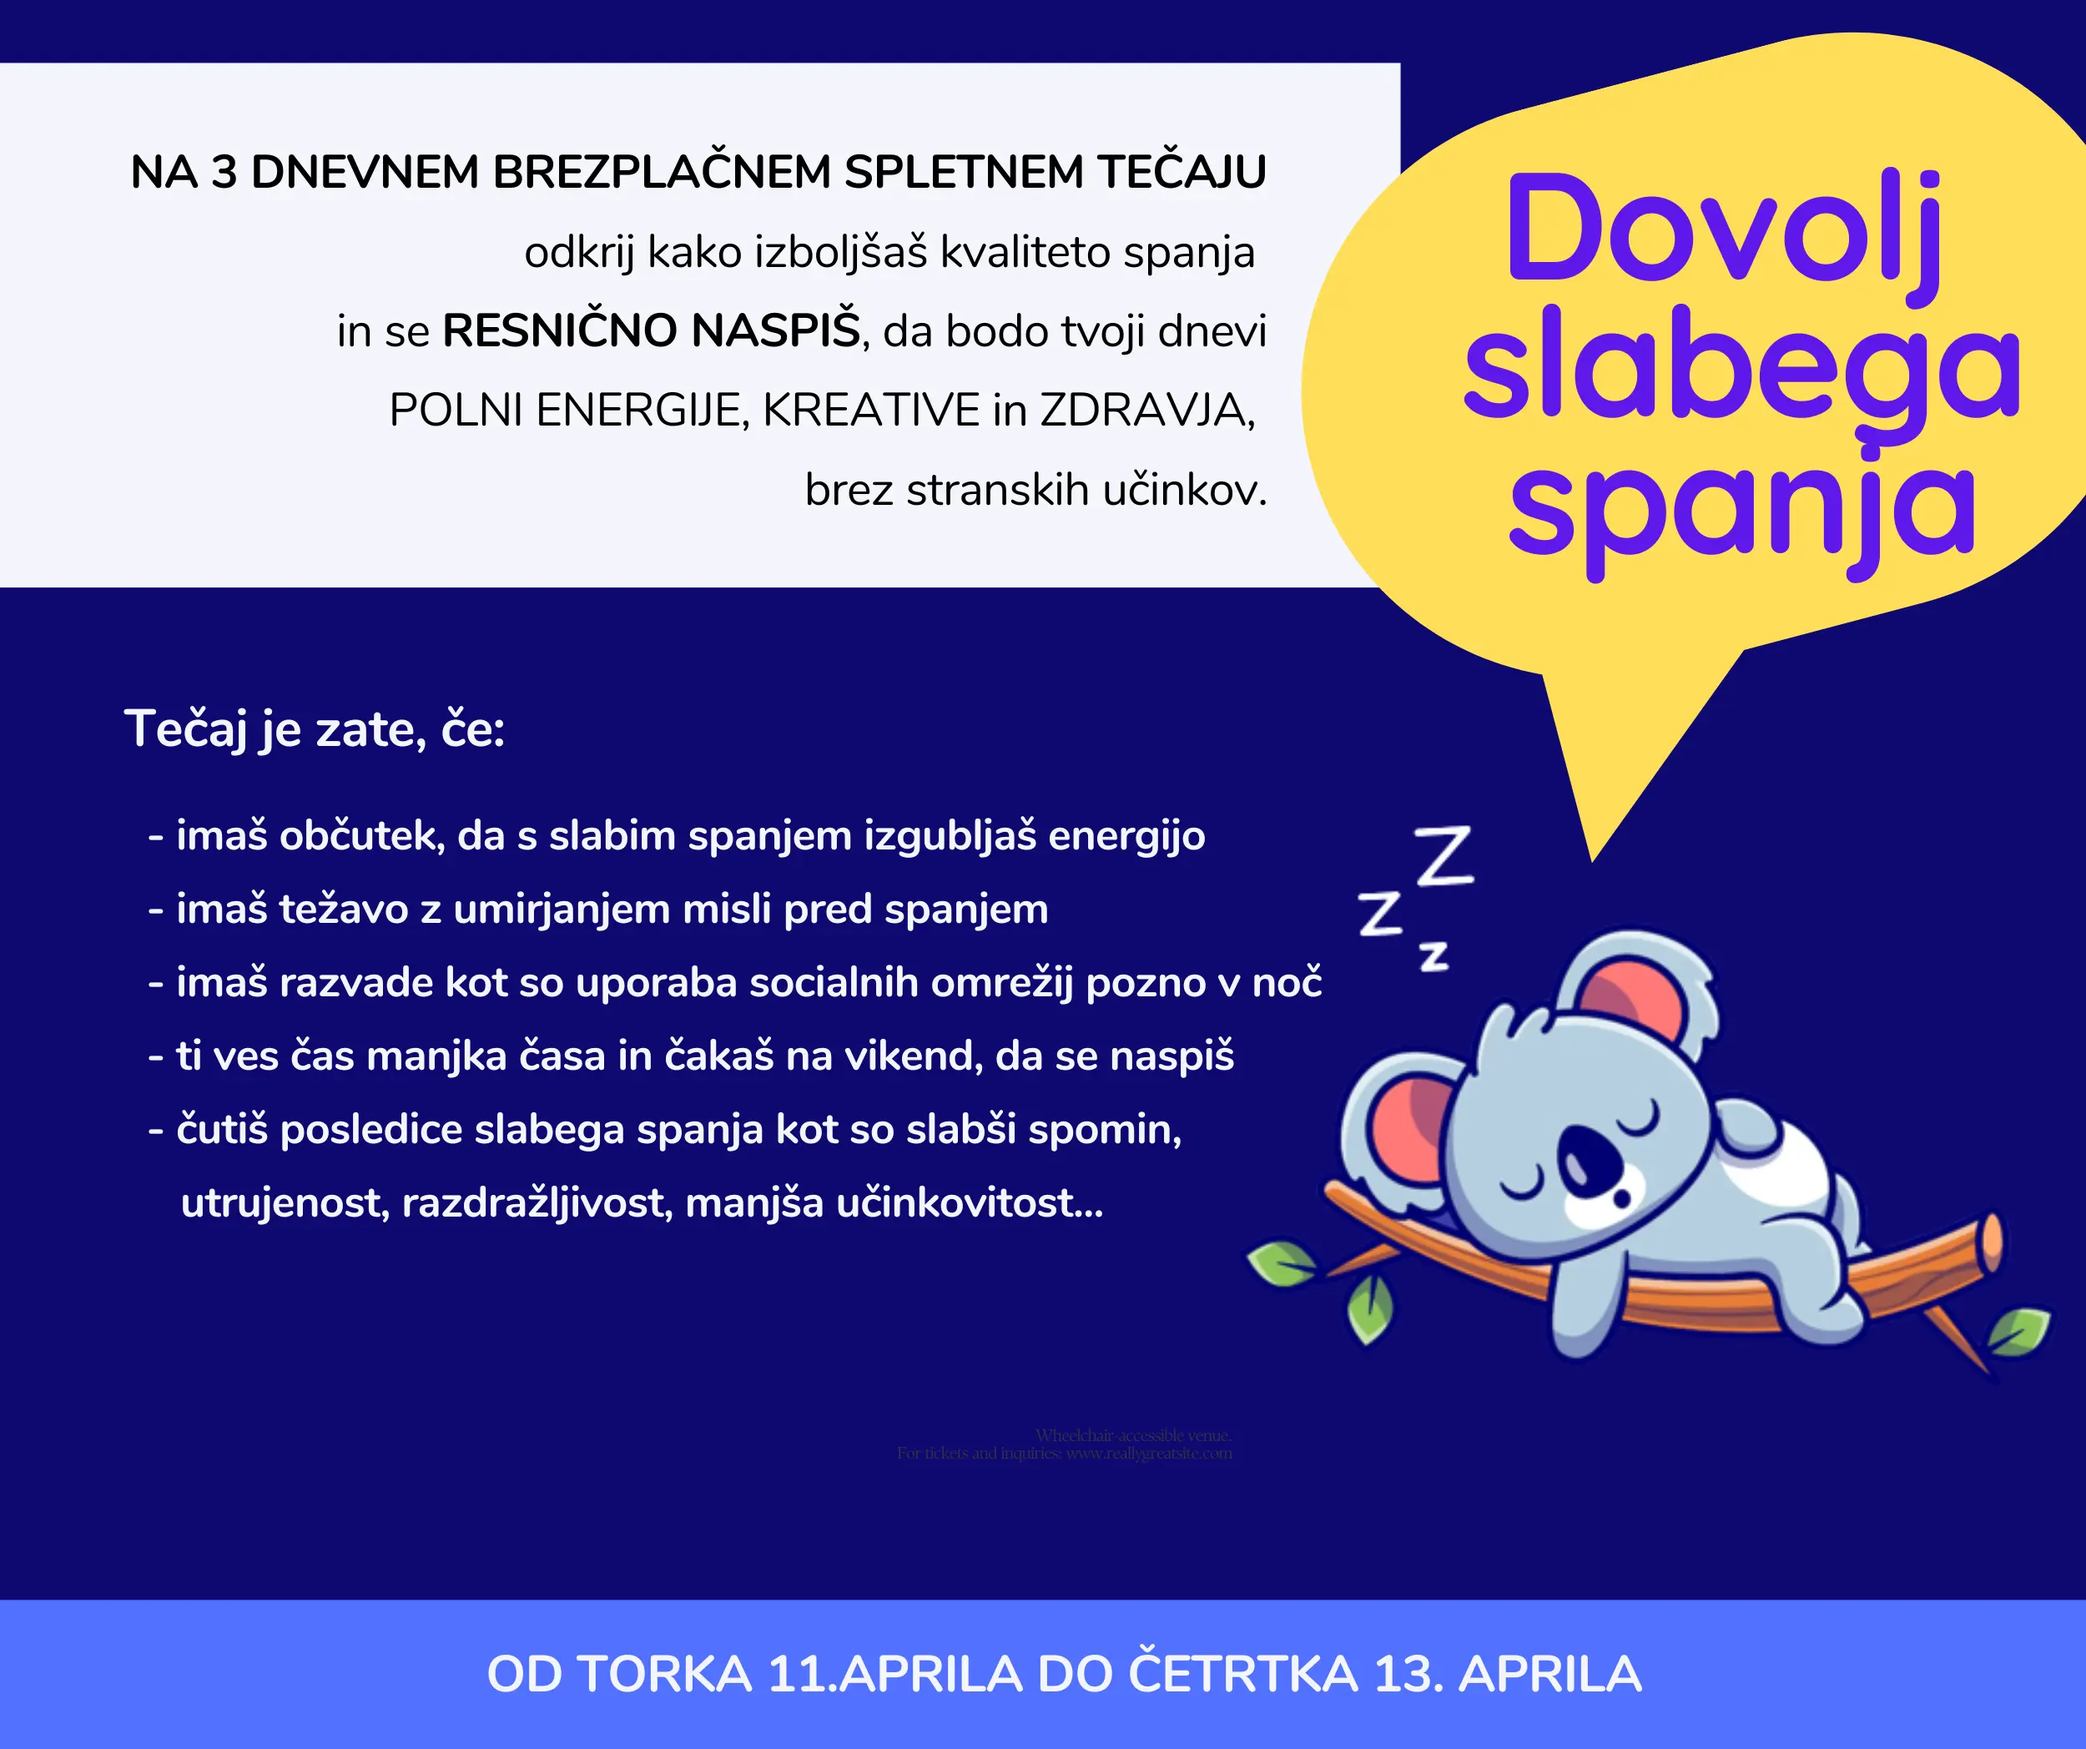
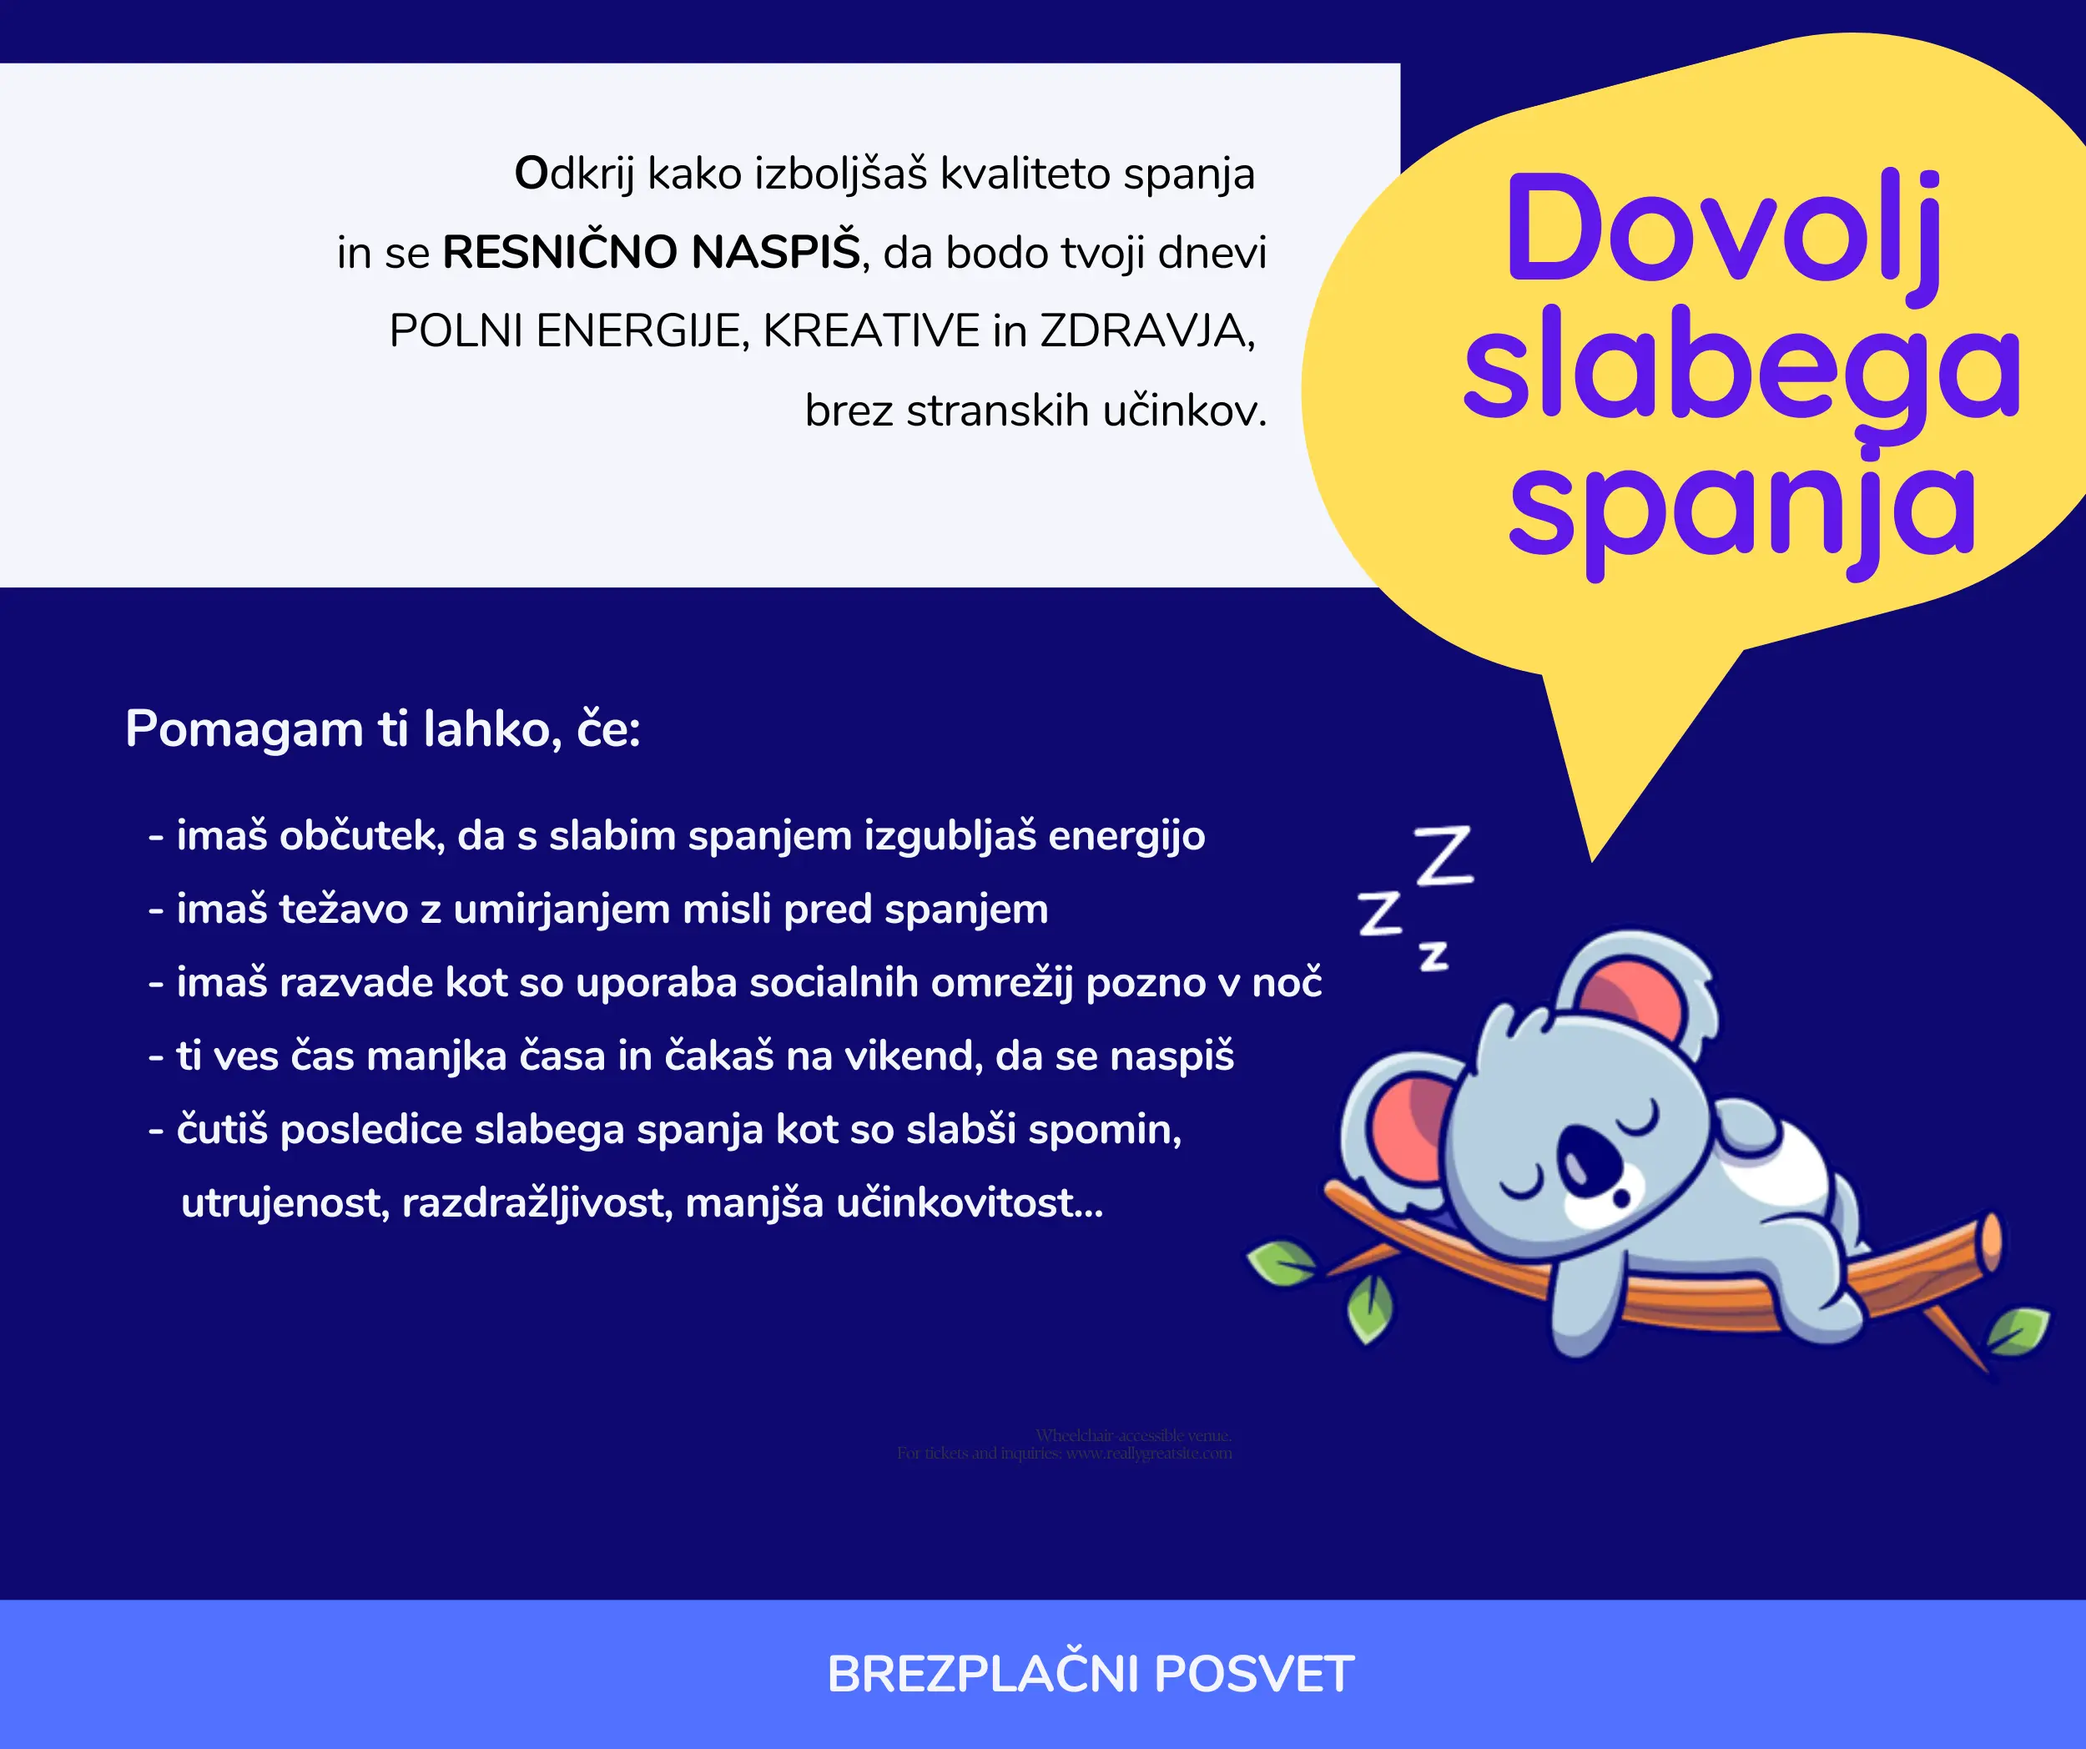
dovolj

diff --git a/layouts/_default/freebie.html b/layouts/_default/freebie.html
@@ -19,7 +19,7 @@
       </div>
       <div class=" col col-12">
         <div class="article_button"><p>Prijava na tečaj Dovolj slabega spanja. </p>
-            <form class="form" action="https://bit.ly/prijava-dovolj-slabega-spanja" method="GET" target="_blank">
+            <form class="form" action="mailto:jana@janabergant.com" method="GET" target="_blank">
                 <button class="button button--middle" type="submit">PRIJAVA<i class="ion ion-ios-paper-plane"></i></button>
             </form>
         </div>

diff --git a/content/dovolj-slabega-spanja.md b/content/dovolj-slabega-spanja.md
@@ -1,9 +1,9 @@
 ---
 title: Dovolj slabega spanja
-Metatitle: Dovolj slabega spanja je 3 dnevni brezplačni online tečaj za osebe, ki si želijo kvalitetnega spanja
-description: Odkrij kako izboljšaš kvaliteto spanja in se resnično naspiš, da bodo tvoji dnevi polni energije, KREATkreative in zdravja, brez stranskih učinkov.
+Metatitle: Brezplačni posvet za osebe, ki si želijo kvalitetnega spanja
+description: Odkrij kako izboljšaš kvaliteto spanja in se resnično naspiš, da bodo tvoji dnevi polni energije, kreative in zdravja, brez stranskih učinkov.
 layout: freebie
-vsebina: "Na 3 dnevnem brezplačnem spletnem tečaju odkrij kako izboljšaš kvaliteto spanja in se resnično naspiš, da bodo tvoji dnevi polni energije, kreative in zdravja, brez stranskih učinkov.
+vsebina: "Odkrij kako izboljšaš kvaliteto spanja in se resnično naspiš, da bodo tvoji dnevi polni energije, kreative in zdravja, brez stranskih učinkov.
 
 
 Tečaj je zate če zaradi nespečnosti: 
